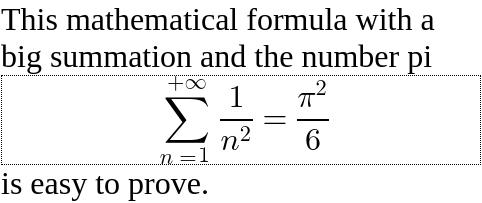
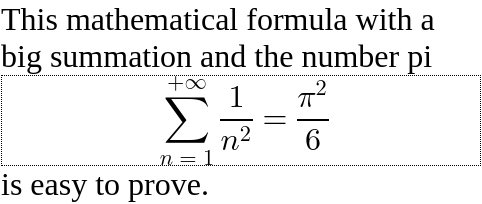
Improvements to the Python script that generates screenshots
1. Switch to official chromium since Igalia's chromium-mathml is
   obsolete.

2. Regenerate examples with the summation of 1/n^2 that were
   modified and edited manually with Chromium 102.0.5005.61
   (do not regenerate all, as not all changes have been released)

3. Add some naming convention "example-without-screenshot-*" for
   examples that don't require a screenshot to be generated.

diff --git a/index.html b/index.html
@@ -5929,7 +5929,7 @@
         an attacker could use this
         to hide the URL text of an untrusted link e.g.</p>
 
-        <pre data-include="examples/example-maction-statusline.html"
+        <pre data-include="examples/example-without-screenshot-maction-statusline.html"
              data-include-format="text"></pre>
 
         <p>This feature is not available in MathML Core, where
@@ -5983,7 +5983,7 @@
           For more about links in MathML, see
           <a href="#security-considerations"></a>.
         </p>
-        <pre data-include="examples/example-math-in-canvas.html"
+        <pre data-include="examples/example-without-screenshot-math-in-canvas.html"
              data-include-format="text"></pre>
       </div>
       <p>
@@ -6004,14 +6004,14 @@
         HTML+CSS+JavaScript document relies on a Web font with exotic metrics
         to try and determine whether <code>A Well Known System Font</code>
         is available by default.</p>
-        <pre data-include="examples/example-font-information-leakage-1.html"
+        <pre data-include="examples/example-without-screenshot-font-information-leakage-1.html"
              data-include-format="text"></pre>
       </div>
       <div class="example" id="font-information-leakage-2">
         <p>The following
         HTML+CSS+JavaScript document tries to determine whether the
         UI serif font provide Asian glyphs:</p>
-        <pre data-include="examples/example-font-information-leakage-2.html"
+        <pre data-include="examples/example-without-screenshot-font-information-leakage-2.html"
              data-include-format="text"></pre>
         <p>
       </div>
@@ -6025,7 +6025,7 @@
         <code>underlineThickness</code> value from the PostScript Table
         [[OPEN-FONT-FORMAT]].
         </p>
-        <pre data-include="examples/example-font-information-leakage-3.html"
+        <pre data-include="examples/example-without-screenshot-font-information-leakage-3.html"
              data-include-format="text"></pre>
         <p>
       </div>

diff --git a/examples/generate.py b/examples/generate.py
@@ -7,7 +7,7 @@ import re
 import subprocess
 import sys
 
-CHROMIUM_PATH = "chromium-mathml"
+CHROMIUM_PATH = "chromium"
 IMAGE_MAGICK = "convert"
 
 def generateScreenShot(name):
@@ -42,12 +42,13 @@ def generateScreenShot(name):
                             image])
             break
      
-print("Generation assumes development version chromium-mathml is available.")
-print("Use the commited examples in git.\n")
+print("Generation assumes chromium is available.")
+print("Use the committed examples in git.\n")
 
 # Generate screenshot for the specified file example, or for all of them.
 if len(sys.argv) >= 2:
     generateScreenShot(sys.argv[1])
 else:
     for name in glob.glob("example-*.html"):
-        generateScreenShot(name)
+        if not name.startswith("example-without-screenshot"):
+            generateScreenShot(name)
